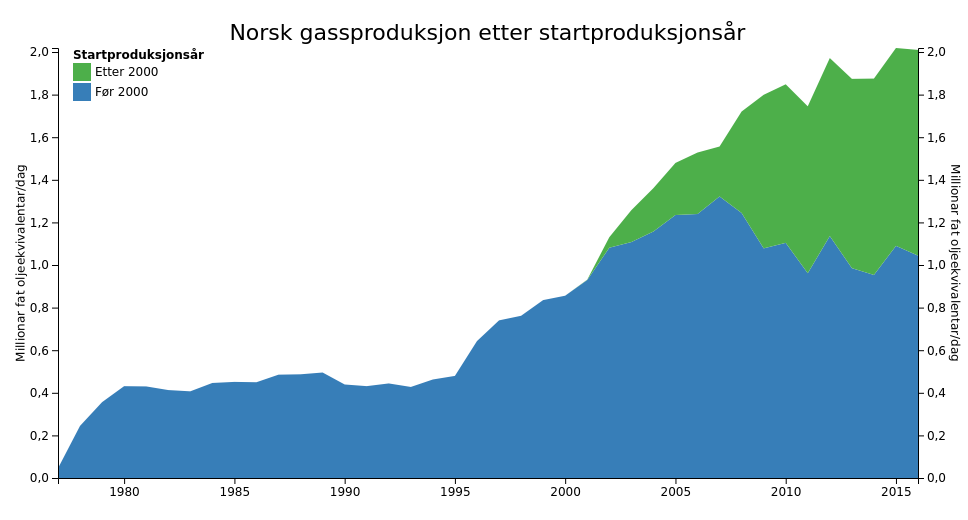
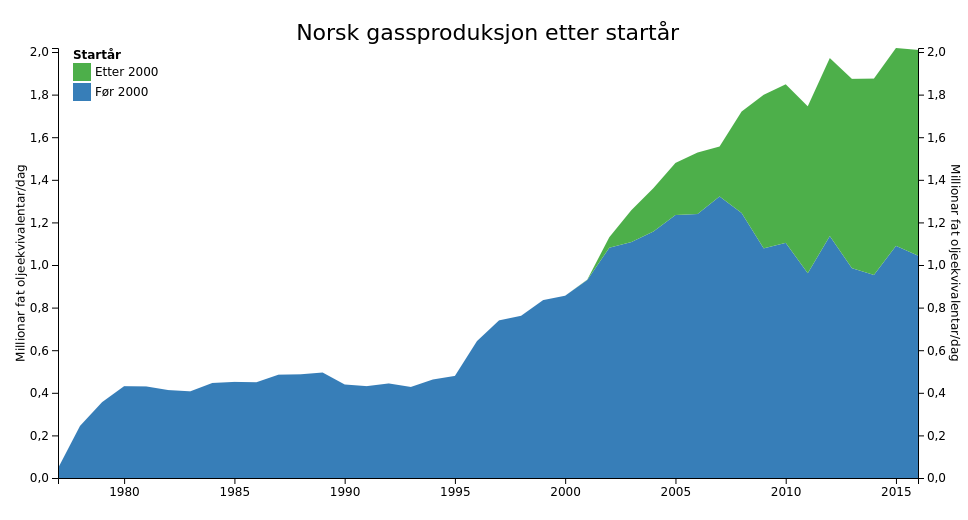
... Continue #35

Changed region(s): [[0.2479, 0.0308, 0.7748, 0.0923], [0.093, 0.0923, 0.2169, 0.1231]]

diff --git a/vis/production.js b/vis/production.js
@@ -154,21 +154,21 @@ var m = {
     oil_startproduction: {
         title: 'oljeproduksjon',
         unit: 'Millionar fat olje/dag',
-        group: 'startproduksjonsår',
+        group: 'startår',
         filename: '/data/millennium/oil_production_yearly_12MMA_mboe_d_by_startproduction.csv',
         screenshot: 'oil_production_yearly_12MMA_by_startproduction.png'
     },
     gas_startproduction: {
         title: 'gassproduksjon',
         unit: 'Millionar fat oljeekvivalentar/dag',
-        group: 'startproduksjonsår',
+        group: 'startår',
         filename: '/data/millennium/gas_production_yearly_12MMA_mboe_d_by_startproduction.csv',
         screenshot: 'gas_production_yearly_12MMA_by_startproduction.png'
     },
     petroleum_startproduction: {
         title: 'petroleumproduksjon',
         unit: 'Millionar fat oljeekvivalentar/dag',
-        group: 'startproduksjonsår',
+        group: 'startår',
         filename: '/data/millennium/oe_production_yearly_12MMA_mboe_d_by_startproduction.csv',
         screenshot: 'oe_production_yearly_12MMA_by_startproduction.png'
     },
